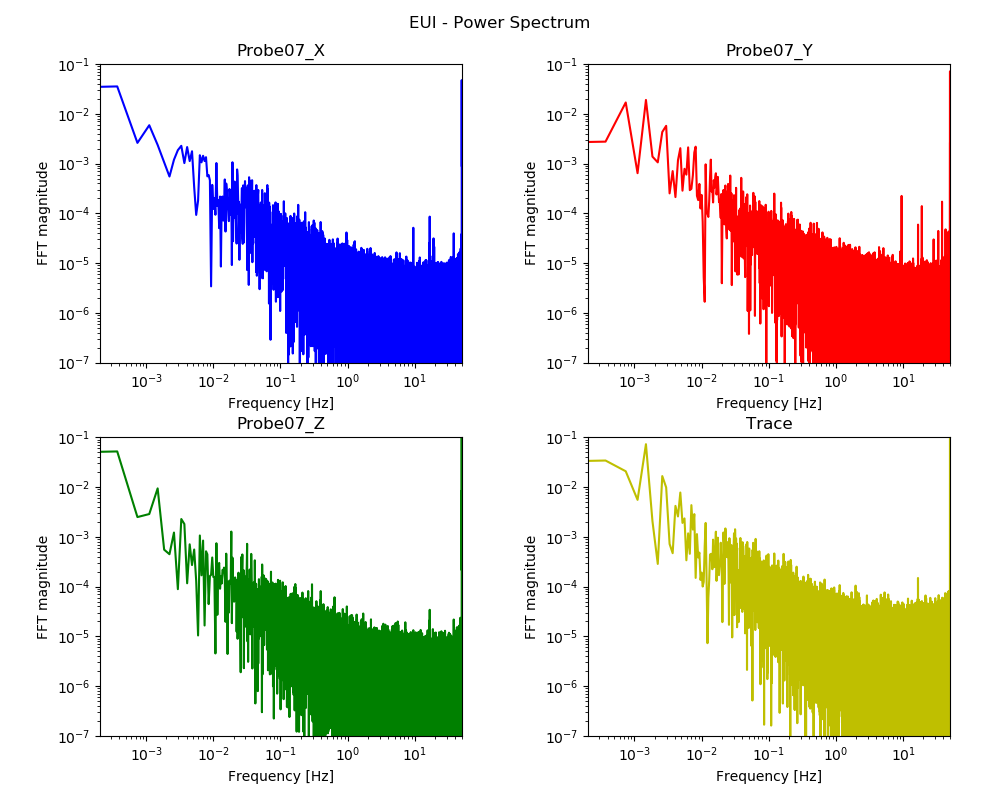
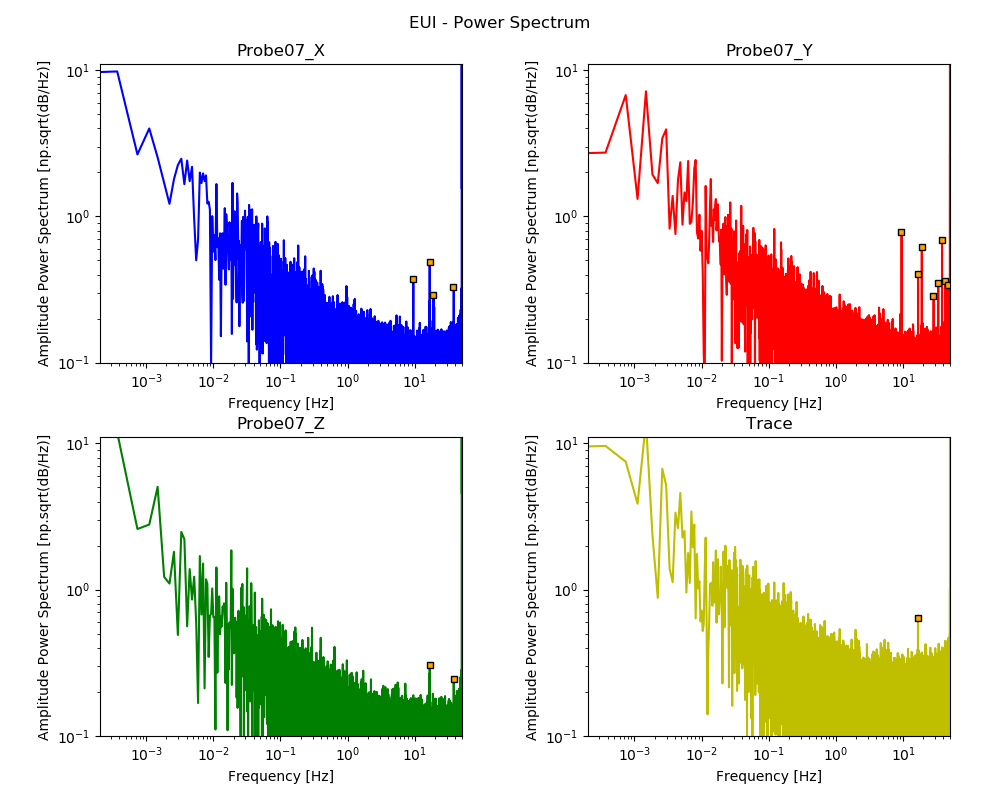
click peaks and annotate

diff --git a/processing.py b/processing.py
@@ -11,6 +11,7 @@ from datetime import datetime, timedelta
 import time
 import math
 from tqdm import tqdm
+import csv
 
 class processing:
 
@@ -214,52 +215,150 @@ class processing:
     @staticmethod
     def powerspecplot(df, fs, collist, alt, inst = None, save = False):
         
+        clicks = []
+        def onclick(event):
+            print('%s click: button=%d, x=%d, y=%d, xdata=%f, ydata=%f' %
+                ('double' if event.dblclick else 'single', event.button, event.x, event.y, event.xdata, event.ydata))
+            clicks.append(event.xdata)
+            clicks.append(event.ydata)
+
         probe_x = collist[1]
         probe_y = collist[2]
         probe_z = collist[3]
         #probe_m = collist[4]
         x = df[probe_x]#[:20000]
-        f_x, Pxx_x = sps.periodogram(x,fs, scaling='spectrum')
+        scaling = 'density'
+        f_x, Pxx_x = sps.periodogram(x, fs, scaling=f'{scaling}')
         x_y = df[probe_y]#[:20000]
-        f_y, Pxx_y = sps.periodogram(x_y,fs, scaling='spectrum')
+        f_y, Pxx_y = sps.periodogram(x_y, fs, scaling=f'{scaling}')
         x_z = df[probe_z]#[:20000]
-        f_z, Pxx_z = sps.periodogram(x_z,fs, scaling='spectrum')
+        f_z, Pxx_z = sps.periodogram(x_z, fs, scaling=f'{scaling}')
         #x = df[probe_m]#[:20000]
         #f_m, Pxx_m = sps.periodogram(x,fs, scaling='spectrum')
         x_t = x + x_y + x_z #trace
-        f_t, Pxx_t = sps.periodogram(x_t, fs, scaling ='spectrum')
+        f_t, Pxx_t = sps.periodogram(x_t, fs, scaling =f'{scaling}')
         
-        def plot_power(f,fs,Pxx,probe, col):
-            plt.loglog(f,Pxx, f'{col}-') #sqrt required for power spectrum, and semi log y axis
+        def plot_power(f,fs,Pxx, probe, col):
+            plt.loglog(f,np.sqrt(Pxx), f'{col}-', picker=100) #sqrt required for power spectrum, and semi log y axis
             plt.xlim(right=fs/2)
-            plt.ylim(10e-8, 10e-2)
             plt.xlabel('Frequency [Hz]')
-            plt.ylabel('FFT magnitude')
+            plt.ylabel('Amplitude Power Spectrum [np.sqrt(dB/Hz)]')
             plt.title(f'{probe}')
-            #peaks, _ = sps.find_peaks(np.log10(np.sqrt(Pxx)), prominence = 2)
-            #print([round(i,1) for i in f[peaks] if i <= 20], len(peaks))
-            #plt.semilogy(f[peaks], np.sqrt(Pxx)[peaks], marker = 'x', markersize = 10, color='orange', linestyle = 'None')
-        
+            peaks, _ = sps.find_peaks(np.log10(Pxx), prominence = 6)
+            #print(peaks)
+            
+            #peaks = peaks[np.where(f[peaks] > 0)]
+            print(probe, [round(i,1) for i in f[peaks] if i <= fs/2], len(peaks))
+            
+        def get_clicks(f, Pxx, Probe):
+            fig = plt.figure()
+            plot_power(f, fs, Pxx, Probe, 'b')
+            plt.xlim(left = 10e-1)
+            plt.ylim(bottom = 10e-2, top = 10e-1)
+            fig.canvas.mpl_connect('button_press_event', onclick)
+            plt.show()
 
-        plt.figure(figsize = (10,8))
+            return clicks
+
+        try:
+            probe = probe_x.split('_')[0]
+            print(probe, inst)
+            with open(f'.\\{probe}_{inst}_powerspectra_2.csv') as f:
+                clicks1, clicks2, clicks3, clicks4 = [], [], [], []
+                for i, line in enumerate(f):
+                    nums = line.split(',')
+                    nums1 = nums[1]
+                    nums2 = nums[2]
+                    if line[0] == 'X':
+                        clicks1.append(float(nums1))
+                        clicks1.append(float(nums2))
+                    if line[0] == 'Y':
+                        clicks2.append(float(nums1))
+                        clicks2.append(float(nums2))
+                    if line[0] == 'Z':
+                        clicks3.append(float(nums1))
+                        clicks3.append(float(nums2))
+                    if line[0] == 'T':
+                        clicks4.append(float(nums1))
+                        clicks4.append(float(nums2))
+
+        except IOError:
+            print("File does not exist - Now will be created")    
+            
+            clicks1 = get_clicks(f_x, Pxx_x, probe_x)
+            clicks = []
+
+            clicks2 = get_clicks(f_y, Pxx_y, probe_y)
+            clicks = []
+
+            clicks3 = get_clicks(f_z, Pxx_z, probe_z)
+            clicks = []
+
+            clicks4 = get_clicks(f_t, Pxx_t, 'T')
+            clicks = []
+
+            print(clicks1, type(clicks1))
+            print(clicks2, type(clicks2))
+            print(clicks3, type(clicks3))
+            print(clicks4, type(clicks4))
+
+            def write_peaks(clicks, dir):
+                clicks = [round(j,2) for j in clicks]
+                i = 0
+                for k in range(int(len(clicks)/2)):
+                    w.writerow([dir, clicks[i], clicks[i+1]])
+                    i += 2
+
+            probe = probe_x.split('_')[0]
+            w = csv.writer(open(f".\\{probe}_{inst}_powerspectra.csv", "w", newline=''))
+            #w.writerow(["Probe","X.slope_lin", "Y.slope_lin", "Z.slope_lin","X.slope_lin_err", "Y.slope_lin_err", "Z.slope_lin_err","X_zero_err","Y_zero_err","Z_zero_err"])#,"X.slope_curve", "Y.slope_curve", "Z.slope_curve","X.slope_curve_err", "Y.slope_curve_err", "Z.slope_curve_err"])
+            w.writerow(["Dir", "Xdata", "Ydata"])
+            write_peaks(clicks1, "X")
+            write_peaks(clicks2, "Y")
+            write_peaks(clicks3, "Z")
+            write_peaks(clicks4, "T")
+
+        def plot_peaks(clicks, axis):
+            j = 0
+            peaks = clicks
+            for i in range(int(len(peaks)/2)):
+                axis.loglog(peaks[j], peaks[j+1], marker = 's', markersize = 5, color='orange', linestyle = 'None', markeredgecolor='black')
+                #axis.annotate(f'{round(peaks[j],2)}', (peaks[j], peaks[j+1]), xytext = (peaks[j] - 10**0.6, peaks[j+1] + 1), wrap = True)
+                j += 2
+
+        fig = plt.figure(figsize = (10,8))#, ax = plt.subplots(2, 2, figsize = (10,8))
         mpl.rcParams['agg.path.chunksize'] = 10000
         
-        plt.subplot(221)
+        ax1 = plt.subplot(221)
         plot_power(f_x, fs, Pxx_x, probe_x, 'b')
+        plt.ylim(10e-2, 11)
+        #plt.xlim(left = 0.5*10e0)
+        plot_peaks(clicks1, ax1)
         
-        plt.subplot(222)
+        
+        ax2 = plt.subplot(222)
         plot_power(f_y, fs, Pxx_y, probe_y, 'r')
-
-        plt.subplot(223)
-        plot_power(f_z, fs, Pxx_z, probe_z, 'g')
+        plt.ylim(10e-2, 11)
+        #plt.xlim(left = 0.5*10e0)
+        plot_peaks(clicks2, ax2)
         
-        plt.subplot(224)
+        ax3 = plt.subplot(223)
+        plot_power(f_z, fs, Pxx_z, probe_z, 'g')
+        plt.ylim(10e-2, 11)
+        #plt.xlim(left = 0.5*10e0)
+        plot_peaks(clicks3, ax3)
+        
+        ax4 = plt.subplot(224)
         Trace = 'Trace'
         plot_power(f_t, fs, Pxx_t, Trace, 'y')
+        plt.ylim(10e-2, 11)
+        #plt.xlim(left = 0.5*10e0)
+        plot_peaks(clicks4, ax4)
+       
         plt.suptitle(f'{inst} - Power Spectrum')
-        #plot_power(f_m, Pxx_m, probe_m)
-        
         plt.subplots_adjust(top=0.92, bottom=0.08, left=0.10, right=0.95, hspace=0.25, wspace=0.35)
+        plt.show()
+        
 
         def alt_power_spec(data, fs, probe):
             ps = np.abs(np.fft.fft(data))**2
@@ -290,8 +389,8 @@ class processing:
 
         if save:
             plt.savefig('(%s)_powerspec_mag' % inst)
-        else:
-            plt.show()
+        # else:
+        #     plt.show()
 
     @staticmethod
     def rotate_21(soloA_bool):

diff --git a/mfsa_object.py b/mfsa_object.py
@@ -52,15 +52,15 @@ class mfsa_object:
             os.environ['MFSA_raw'] = os.path.expanduser('~/Documents/MsciProject/Data')
 
         mfsa_init_path = os.environ.get('MFSA_raw')
-        print(mfsa_init_path)
+        #print(mfsa_init_path)
         if self.day == 1:
             mfsa_init_path = os.path.join(mfsa_init_path, 'day_one')
         elif self.day == 2:
             mfsa_init_path = os.path.join(mfsa_init_path, 'day_two')
-        print(mfsa_init_path)
+        #print(mfsa_init_path)
         mfsa_fol_A = os.path.join(mfsa_init_path, 'A')
         mfsa_fol_B = os.path.join(mfsa_init_path, 'B')
-        print(mfsa_fol_A)
+        #print(mfsa_fol_A)
         if self.probe < 9:
             soloA_bool = True
         else:
@@ -131,7 +131,7 @@ class mfsa_object:
 
     def powerspectra(self):
         if hasattr(self, 'name'):
-            processing.powerspecplot(self.df, self.fs, self.collist, alt=False, inst = self.name, save = True)
+            processing.powerspecplot(self.df, self.fs, self.collist, alt=False, inst = self.name, save = False)
         else:
             processing.powerspecplot(self.df, self.fs, self.collist, alt=False, save = False)
 
@@ -168,11 +168,13 @@ if __name__ == "__main__":
     EPD - 14:43-14:59 #be wary as epd in different regions #full ==>13:44-14:58
     """
     day = 2
-    start_dt = datetime(2019,6,24,9,24) #in spacecraft time
-    end_dt = datetime(2019,6,24,10,9)
-    probe = 9
+    probe = 7
     sampling_fs = 100
 
-    eui = mfsa_object(day, start_dt, end_dt, probe, sampling_fs, timezone = 'MAG', name = 'EUI')
+    eui = mfsa_object(day, datetime(2019,6,24,9,24), datetime(2019,6,24,10,9), probe, sampling_fs, timezone = 'MAG', name = 'EUI')
     eui.get_data()
-    eui.spectrogram()
+    eui.powerspectra()
+
+    #metis = mfsa_object(day,datetime(2019,6,24,10,10), datetime(2019,6,24,10,56), probe, sampling_fs, timezone = 'MAG', name = 'METIS')
+    #metis.get_data()
+    #metis.powerspectra()

diff --git a/old_files/attempt_read_powerspecspikes.py b/old_files/attempt_read_powerspecspikes.py
@@ -1,0 +1,24 @@
+with open('.\\Probe07_METIS_powerspectra.csv') as f:
+    clicks1, clicks2, clicks3, clicks4 = [], [], [], []
+    for i, line in enumerate(f):
+        nums = line.split(',')
+        nums1 = nums[1]
+        nums2 = nums[2]
+        print(nums1, nums2)
+        if line[0] == 'X':
+            clicks1.append(float(nums1))
+            clicks1.append(float(nums2))
+        if line[0] == 'Y':
+            clicks2.append(float(nums1))
+            clicks2.append(float(nums2))
+        if line[0] == 'Z':
+            clicks3.append(float(nums1))
+            clicks3.append(float(nums2))
+        if line[0] == 'T':
+            clicks4.append(float(nums1))
+            clicks4.append(float(nums2))
+
+print(clicks1)
+print(clicks2)
+print(clicks3)
+print(clicks4)
